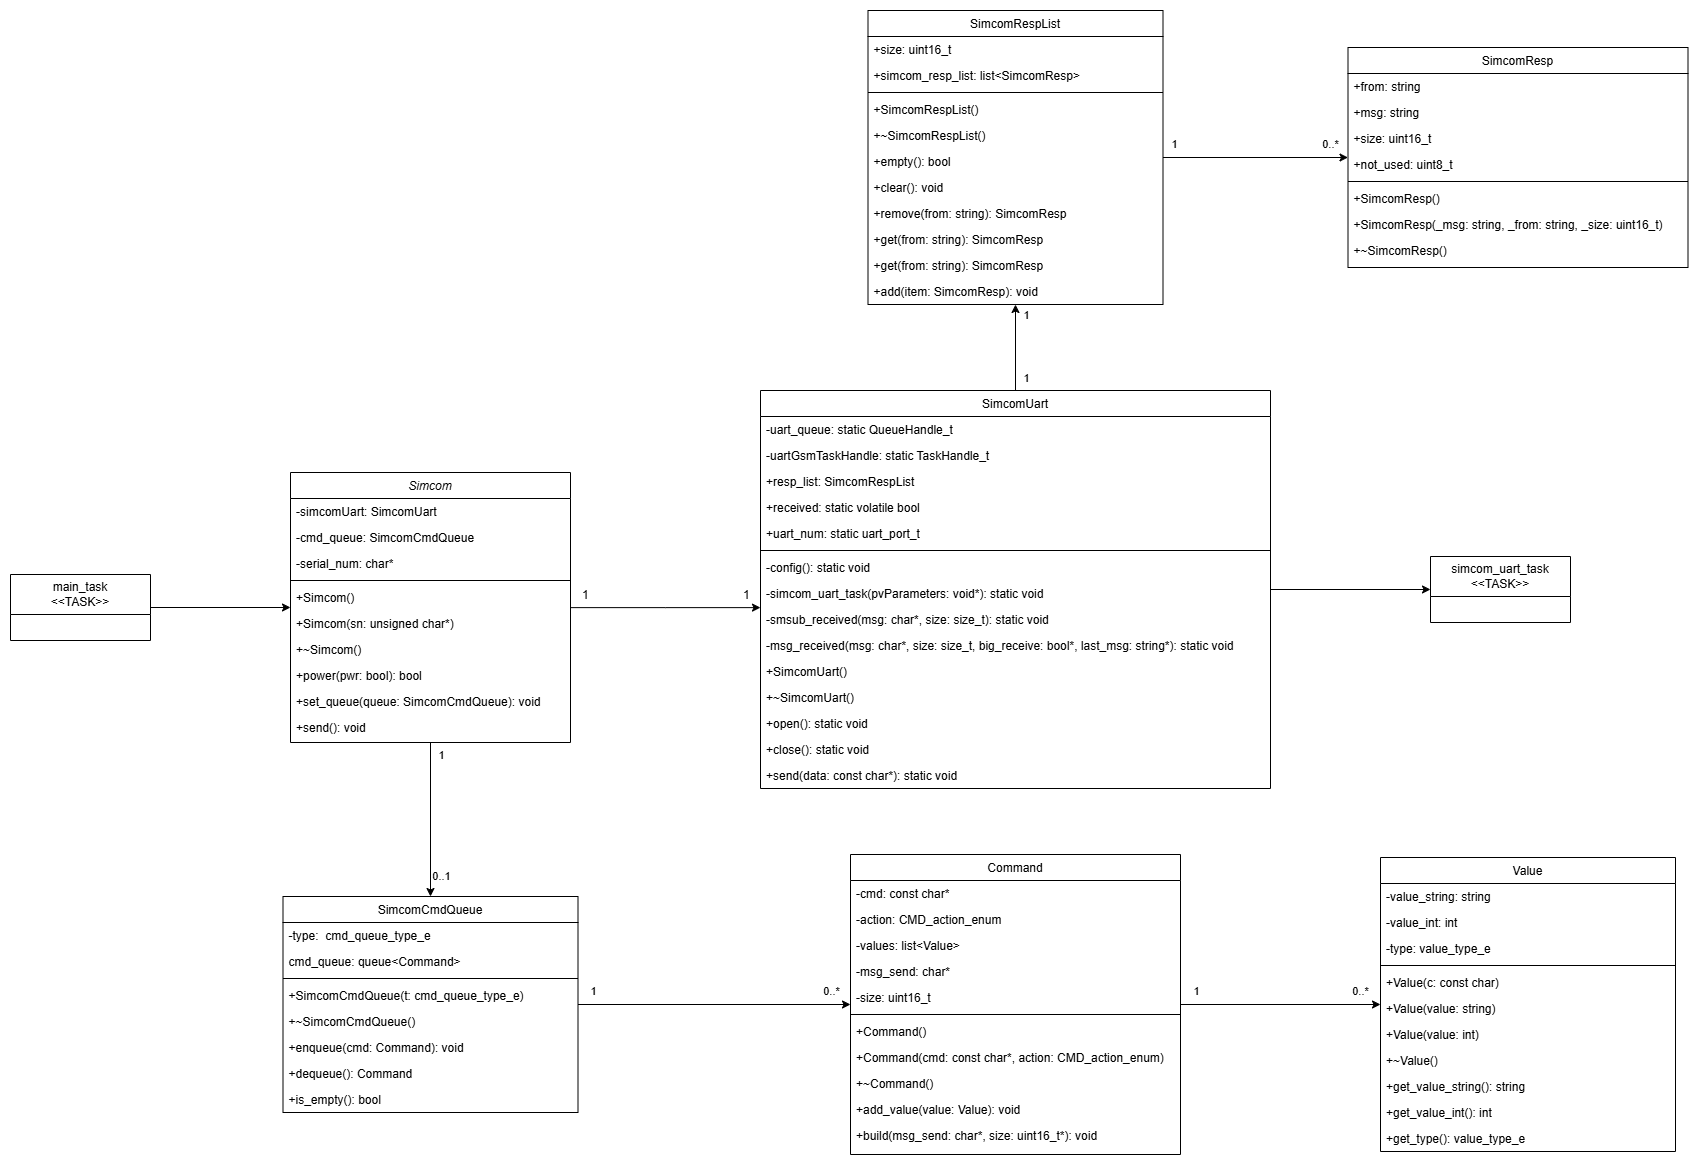
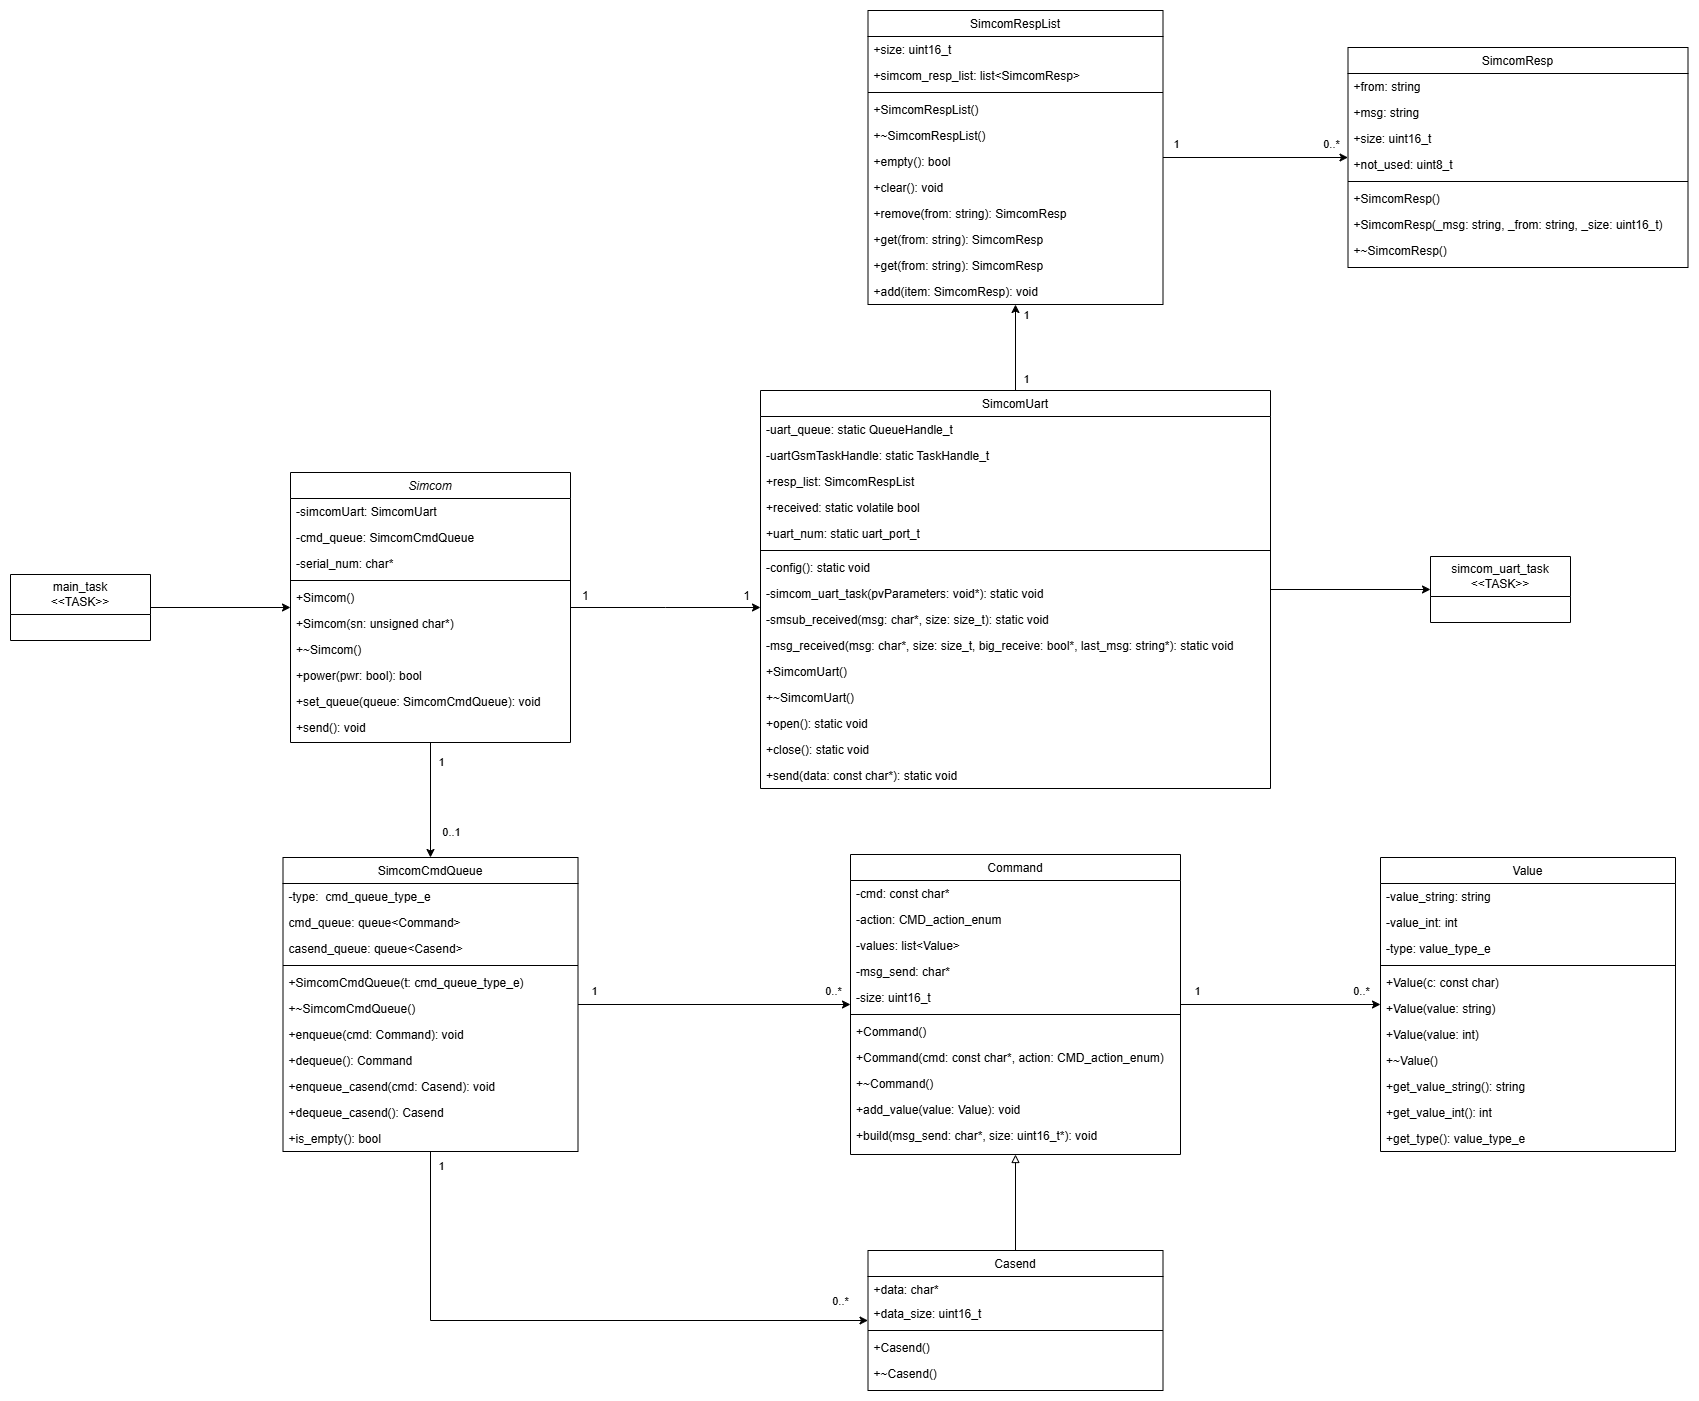
update: casend created, queue increased

diff --git a/SimcomTCP/main/source/SimcomUart.cpp b/SimcomTCP/main/source/SimcomUart.cpp
@@ -68,26 +68,19 @@ void SimcomUart::simcom_uart_task(void *pvParameters)
             switch (event.type)
             {
             case UART_DATA:
-                cout << "UART_DATA" << endl;
                 size = event.size;
                 uart_read_bytes(uart_num, raw_msg_received, size, portMAX_DELAY);
-                cout << "A" << endl;
 
                 if (mtw_str::StrContainsSubstr(raw_msg_received, SMSUB, size, SIZE(SMSUB)) >= 0 && mtw_str::StrContainsSubstr(raw_msg_received, BEGIN_CMD, size, SIZE(BEGIN_CMD)) < 0)
                 {
-                    cout << "B1" << endl;
                     smsub_received(raw_msg_received, size);
-                    cout << "C1" << endl;
                 }
                 else
                 {
-                    cout << "B2" << endl;
                     mtw_str::remove_char(raw_msg_received, &size, '\0');
                     mtw_str::remove_char(raw_msg_received, &size, '\r');
                     msg = string(raw_msg_received, size);
-                    cout << "C2" << endl;
                     msg_received(msg, size, &big_receive, &last_msg);
-                    cout << "C3" << endl;
                 }
                 break;
 
@@ -194,4 +187,12 @@ void SimcomUart::msg_received(string msg, size_t size, bool *big_receive, string
         simcom_resp_list.add(SimcomResp(msg_aux, size_aux));
         received = false;
     }
+}
+
+SimcomResp SimcomUart::get_resp(Command cmd)
+{
+    SimcomResp resp = SimcomResp();
+    if (!simcom_resp_list.empty())
+        resp = simcom_resp_list.get(string(cmd.cmd));
+    return resp;
 }

diff --git a/SimcomTCP/main/source/Simcom.cpp b/SimcomTCP/main/source/Simcom.cpp
@@ -32,20 +32,33 @@ void Simcom::set_queue(SimcomCmdQueue queue)
 bool Simcom::send()
 {
     Command cmd;
+    Casend casend_cmd;
     uint16_t size = 0;
     char msg_send[MAX_NUM_CHAR_SEND_BUFF] = {0};
 
     while (!cmd_queue.is_empty())
     {
         cmd = cmd_queue.dequeue();
-        cmd.build(msg_send, &size);
-        simcomUart.send(msg_send, (size_t)size);
-        vTaskDelay(100 / portTICK_PERIOD_MS);
+        if (mtw_str::StrContainsSubstr((char *)(cmd.cmd), CASEND, SIZE(CASEND), SIZE(CASEND) >= 0))
+        {
+            casend_cmd = cmd_queue.dequeue_casend();
+            casend_cmd.build(msg_send, &size);
+            simcomUart.send(msg_send, (size_t)size);
+            vTaskDelay(1000 / portTICK_PERIOD_MS);
+            simcomUart.send(casend_cmd.data, casend_cmd.data_size);
+            vTaskDelay(1000 / portTICK_PERIOD_MS);
+        }
+        else
+        {
+            cmd.build(msg_send, &size);
+            simcomUart.send(msg_send, (size_t)size);
+            vTaskDelay(1000 / portTICK_PERIOD_MS);
 
-        SimcomResp resp = simcomUart.get_resp(cmd);
-        // Validar resposta
-        if (!resp.valid(cmd))
-            return false;
+            SimcomResp resp = simcomUart.get_resp(cmd);
+            // Validar resposta
+            if (!resp.valid(cmd))
+                return false;
+        }
     }
     return true;
 }

diff --git a/SimcomTCP/main/source/main_task.cpp b/SimcomTCP/main/source/main_task.cpp
@@ -25,7 +25,6 @@ void main_task_init(void)
 
 void main_task(void *pvParameters)
 {
-    cout << "Main task started" << endl;
     main_task_queue_message_t msg;
     unsigned char sn[SN_SIZE] = {'S', '1', 'm', 'C', '0', 'M', '5'};
     pins_init();
@@ -100,6 +99,20 @@ SimcomCmdQueue create_start_mqtt_queue()
     queue.enqueue(cmd);
 
     cmd = Command(CNACT, CMD_action_enum::READ);
+    queue.enqueue(cmd);
+
+    cmd = Command(CASSLCFG, CMD_action_enum::WRITE);
+    cmd.add_value(Value((int)0));
+    cmd.add_value(Value("SSL"));
+    cmd.add_value(Value((int)0));
+    queue.enqueue(cmd);
+
+    cmd = Command(CAOPEN, CMD_action_enum::WRITE);
+    cmd.add_value(Value((int)0));
+    cmd.add_value(Value((int)0));
+    cmd.add_value(Value("TCP"));
+    cmd.add_value(Value("172.104.199.107"));
+    cmd.add_value(Value((int)1883));
     queue.enqueue(cmd);
 
     return queue;

diff --git a/SimcomTCP/main/include/SimcomCmdQueue.h b/SimcomTCP/main/include/SimcomCmdQueue.h
@@ -3,6 +3,7 @@
 
 #include <queue>
 #include "Command.h"
+#include "Casend.h"
 
 enum cmd_queue_type_e
 {
@@ -15,6 +16,7 @@ class SimcomCmdQueue
 private:
     cmd_queue_type_e type;
     queue<Command> cmd_queue;
+    queue<Casend> casend_queue;
 
 public:
     SimcomCmdQueue(cmd_queue_type_e t);
@@ -22,6 +24,8 @@ public:
 
     void enqueue(Command cmd);
     Command dequeue();
+    void enqueue_casend(Casend cmd);
+    Casend dequeue_casend();
     bool is_empty();
 };
 

diff --git a/SimcomTCP/main/include/simcom_definitions.h b/SimcomTCP/main/include/simcom_definitions.h
@@ -317,6 +317,8 @@ enum Thread_action_enum
 #define CPSMCFG "+CPSMCFG"       // Configure minimum threshold value
 #define CFUN "+CFUN"             // Set Phone Functionality
 #define CPIN "+CPIN"             // SIM card status
+#define CASSLCFG "+CASSLCFG"     // SSL configure
+#define CASEND "+CASEND"         // Request to send data through TCP/UDP
 
 #define CNACT "+CNACT" // APP network active
 #define CMNB "+CMNB"   // Preferred selection between CAT-M and NB-IoT

diff --git a/SimcomTCP/main/include/Command.h b/SimcomTCP/main/include/Command.h
@@ -3,8 +3,8 @@
 
 #include "common.h"
 #include "simcom_definitions.h"
-#include "SimcomUart.h"
 #include <list>
+#include "mtw_str.h"
 
 using namespace std;
 
@@ -70,14 +70,13 @@ public:
 
 class Command
 {
-private:
+public:
     const char *cmd;
     CMD_action_enum action;
     list<Value> values;
     char msg_send[MAX_NUM_CHAR_SEND_BUFF];
     uint16_t size;
 
-public:
     /**
      * Constructor
      * @author EKPV

diff --git a/SimcomTCP/main/source/SimcomCmdQueue.cpp b/SimcomTCP/main/source/SimcomCmdQueue.cpp
@@ -22,6 +22,18 @@ Command SimcomCmdQueue::dequeue()
     return cmd;
 }
 
+void SimcomCmdQueue::enqueue_casend(Casend cmd)
+{
+    casend_queue.push(cmd);
+}
+
+Casend SimcomCmdQueue::dequeue_casend()
+{
+    Casend cmd = casend_queue.front();
+    casend_queue.pop();
+    return cmd;
+}
+
 bool SimcomCmdQueue::is_empty()
 {
     return cmd_queue.empty();

diff --git a/SimcomTCP/main/include/Casend.h b/SimcomTCP/main/include/Casend.h
@@ -1,0 +1,18 @@
+#ifndef CASEND_H
+#define CASEND_H
+
+#include "Command.h"
+
+class Casend : public Command
+{
+private:
+public:
+    char data[MAX_NUM_CHAR_SEND_BUFF];
+    uint16_t data_size;
+
+    Casend();
+    Casend(const char *cmd, CMD_action_enum action, char *data, uint16_t data_size);
+    ~Casend();
+};
+
+#endif // CASEND_H

diff --git a/SimcomTCP/main/source/Casend.cpp b/SimcomTCP/main/source/Casend.cpp
@@ -1,0 +1,14 @@
+#include "Casend.h"
+
+Casend::Casend() : Command(), data({0}), data_size(0)
+{
+}
+
+Casend::Casend(const char *cmd, CMD_action_enum action, char *data, uint16_t data_size) : Command(cmd, action), data({0}), data_size(data_size)
+{
+    memcpy(this->data, data, data_size);
+}
+
+Casend::~Casend()
+{
+}

diff --git a/SimcomTCP/main/include/Simcom.h b/SimcomTCP/main/include/Simcom.h
@@ -4,6 +4,7 @@
 // #include "Lte.h"
 #include "SimcomUart.h"
 #include "SimcomCmdQueue.h"
+#include "simcom_definitions.h"
 
 #define SN_SIZE 7
 
